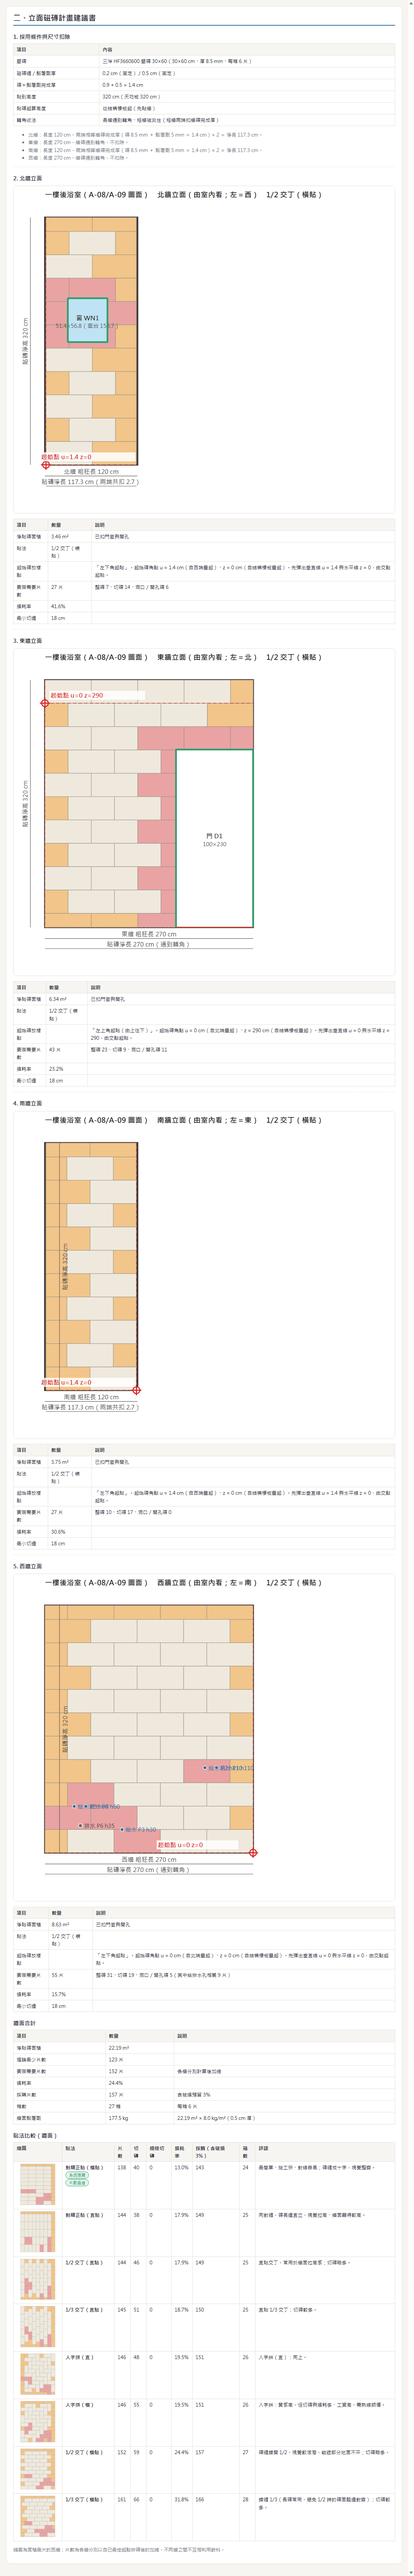
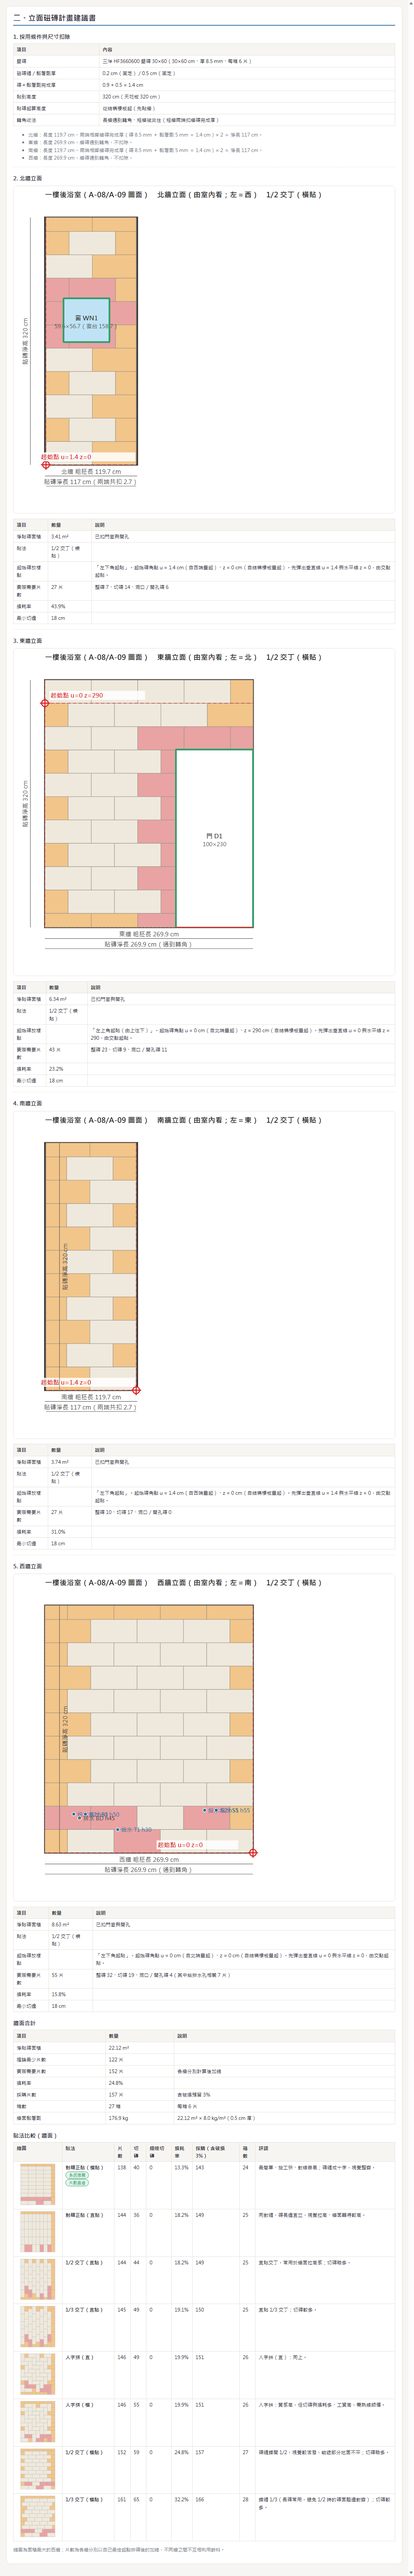
真實案例：改用新平面圖／立面圖的標註尺寸；新增地面開孔（馬桶糞管孔）

diff --git a/20261017/students/A14530026_王品洋/tile-planner/磁磚計畫.html b/20261017/students/A14530026_王品洋/tile-planner/磁磚計畫.html
@@ -318,6 +318,7 @@ function defaultProject() {
     floorMethod: 'auto', floorStart: 'auto', wallMethod: 'auto', wallStart: 'auto',
     breakagePct: 3, adhesiveKgPerM2PerMm: 1.6, bagKg: 20, trimLossPct: 5,
     drain: { x: 60, y: 130, size: 10, slope: 1, mode: 'point', dir: 'N' },
+    floorHoles: [],
     openings: [
       { id: 'D1', type: 'door', wall: 'S', offset: 50, width: 80, height: 200, sill: 0 },
       { id: 'WN1', type: 'window', wall: 'N', offset: 60, width: 60, height: 60, sill: 150 }
@@ -360,6 +361,12 @@ function validate(pj) {
     if (!(d.size >= 3 && d.size <= 40)) { errs.push('落水孔尺寸須在 3～40 cm（目前 ' + sv(d.size) + '）'); }
     if (!(d.slope >= 0 && d.slope <= 5)) { errs.push('洩水坡度須在 0～5 %（目前 ' + sv(d.slope) + '）'); }
   }
+  pj.floorHoles.forEach(function (h) {
+    var lab = '地面開孔 ' + h.id;
+    if (!fin(h.x) || !fin(h.y) || !fin(h.size)) { errs.push(lab + '：位置或尺寸未填或不是數字'); }
+    else if (!(h.size >= 2 && h.size <= 40)) { errs.push(lab + '：尺寸須在 2～40 cm（目前 ' + h.size + '）'); }
+    else if (fin(R.L) && fin(R.D) && !(h.x > 0 && h.x < R.L && h.y > 0 && h.y < R.D)) { errs.push(lab + '：位置 (' + h.x + ',' + h.y + ') 必須在房間之內'); }
+  });
   pj.openings.forEach(function (o) {
     var len = (o.wall === 'N' || o.wall === 'S') ? R.L : R.D;
     var lab = WALL_ZH[o.wall] + (o.type === 'door' ? '門 ' : '窗 ') + o.id;
@@ -417,6 +424,9 @@ function normalize(raw) {
   pj.bagKg = num(pj.bagKg, 20); pj.trimLossPct = num(pj.trimLossPct, 5);
   var d = pj.drain || base.drain;
   pj.drain = { x: num(d.x, NaN), y: num(d.y, NaN), size: num(d.size, 10), slope: num(d.slope, 1), mode: d.mode === 'oneway' ? 'oneway' : 'point', dir: d.dir || 'N' };
+  pj.floorHoles = (pj.floorHoles || []).map(function (h) {
+    return { id: String(h.id || ''), label: String(h.label || '地面開孔'), x: num(h.x, NaN), y: num(h.y, NaN), size: num(h.size, 10) };
+  });
   pj.openings = (pj.openings || []).map(function (o) {
     return { id: String(o.id || ''), type: o.type === 'window' ? 'window' : 'door', wall: o.wall, offset: num(o.offset, NaN),
              width: num(o.width, NaN), height: num(o.height, NaN), sill: o.type === 'window' ? num(o.sill, 0) : 0 };
@@ -455,7 +465,9 @@ function floorSurface(pj) {
   var d = pj.drain;
   hole = [d.x - d.size / 2, d.y - d.size / 2, d.x + d.size / 2, d.y + d.size / 2];
   void ft; void i;
-  return { rects: [rect].concat(strips), holes: [hole], net: rect, ins: ins, ew: ew, ef: ft.t / 10 + ADH };
+  var holes = [hole];
+  pj.floorHoles.forEach(function (h) { holes.push([h.x - h.size / 2, h.y - h.size / 2, h.x + h.size / 2, h.y + h.size / 2]); });
+  return { rects: [rect].concat(strips), holes: holes, net: rect, ins: ins, ew: ew, ef: ft.t / 10 + ADH };
 }
 
 function wallSurface(pj, w) {
@@ -662,7 +674,7 @@ function computeAllInner(raw) {
 
   /* 地面 */
   var fs = floorSurface(pj), fp = pickOrOverride(pj, ft, fs, 'floor');
-  var fArea = (rectArea(fs.rects[0]) + fs.rects.slice(1).reduce(function (s, r) { return s + rectArea(r); }, 0)) - pj.drain.size * pj.drain.size;
+  var fArea = (rectArea(fs.rects[0]) + fs.rects.slice(1).reduce(function (s, r) { return s + rectArea(r); }, 0)) - pj.drain.size * pj.drain.size - pj.floorHoles.reduce(function (s, h) { return s + h.size * h.size; }, 0);
   var floor = { surface: fs, tile: ft, netArea: fArea / 1e4, chosen: fp.chosen, compare: fp.table, methods: fp.methods };
   floor.slope = slopeInfo(pj, fs, ft);
   out.floor = floor;
@@ -852,6 +864,11 @@ function planSVG(res, opts) {
   s += '<rect x="' + X(n[0]) + '" y="' + Y(n[1]) + '" width="' + ((n[2] - n[0]) * sc) + '" height="' + ((n[3] - n[1]) * sc) + '" fill="none" stroke="#b08968" stroke-width="1" stroke-dasharray="4 3"/>';
   // 落水孔
   var d = pj.drain, ds = d.size * sc;
+  (pj.floorHoles || []).forEach(function (h) {
+    var hs = h.size * sc;
+    s += '<rect x="' + (X(h.x) - hs / 2) + '" y="' + (Y(h.y) - hs / 2) + '" width="' + hs + '" height="' + hs + '" fill="#fff" stroke="' + C.dra + '" stroke-width="1.5" stroke-dasharray="4 2"/>';
+    s += text(X(h.x) + hs / 2 + 4, Y(h.y) + 4, h.label + ' ' + h.size + 'cm', { size: 11, fill: C.dra, bold: true });
+  });
   s += '<rect x="' + (X(d.x) - ds / 2) + '" y="' + (Y(d.y) - ds / 2) + '" width="' + ds + '" height="' + ds + '" fill="#fff" stroke="' + C.drain + '" stroke-width="1.5"/>';
   s += '<line x1="' + (X(d.x) - ds / 2) + '" y1="' + (Y(d.y) - ds / 2) + '" x2="' + (X(d.x) + ds / 2) + '" y2="' + (Y(d.y) + ds / 2) + '" stroke="' + C.drain + '"/>';
   s += '<line x1="' + (X(d.x) + ds / 2) + '" y1="' + (Y(d.y) - ds / 2) + '" x2="' + (X(d.x) - ds / 2) + '" y2="' + (Y(d.y) + ds / 2) + '" stroke="' + C.drain + '"/>';
@@ -1416,7 +1433,9 @@ function renderForm() {
   h += '<details open><summary>② 落水孔與洩水坡度（地面）</summary><div class="grid2">' +
     inp('落水孔中心 x cm', 'drain.x') + inp('落水孔中心 y cm', 'drain.y') + inp('格柵邊長 cm', 'drain.size') + inp('洩水坡度 %', 'drain.slope', { step: '0.1' }) +
     inp('洩水方式', 'drain.mode', { type: 'select', options: [['point', '四周往落水孔（點收水）'], ['oneway', '單向洩水']] }) +
-    inp('單向洩水：往哪面牆', 'drain.dir', { type: 'select', options: WALL_OPTS }) + '</div></details>';
+    inp('單向洩水：往哪面牆', 'drain.dir', { type: 'select', options: WALL_OPTS }) + '</div>' +
+    '<p class="hint">其他地面開孔（例：馬桶糞管孔 4"）：</p>' + listTable('floorHoles', [
+      { h: '編號', k: 'id', t: 'str' }, { h: '名稱', k: 'label', t: 'str' }, { h: 'x', k: 'x', t: 'num' }, { h: 'y', k: 'y', t: 'num' }, { h: '邊長', k: 'size', t: 'num' }], '新增地面開孔') + '</details>';
 
   h += '<details open><summary>③ 門／窗（立面）</summary>' + listTable('openings', [
     { h: '編號', k: 'id', t: 'str' }, { h: '類型', k: 'type', t: 'select', o: [['door', '門'], ['window', '窗']] }, { h: '牆', k: 'wall', t: 'select', o: WALL_OPTS },
@@ -1474,6 +1493,7 @@ document.addEventListener('click', function (e) {
     var k = t.getAttribute('data-add'), a = getPath(S, k);
     var n = a.length + 1;
     if (k === 'openings') { a.push({ id: 'O' + n, type: 'window', wall: 'N', offset: 10, width: 50, height: 50, sill: 100 }); }
+    else if (k === 'floorHoles') { a.push({ id: 'H' + n, label: '地面開孔', x: 30, y: 30, size: 10 }); }
     else if (k === 'fixtures') { a.push({ id: 'X' + n, kind: 'supply', wall: 'W', offset: 50, height: 100, dia: 2.5 }); }
     else if (k === 'tiles') { a.push({ id: 'T' + n, name: '新磁磚', w: 30, h: 60, t: 9, perBox: 6, use: 'both' }); }
     else if (k === 'trim.outerCorners') { a.push({ label: '陽角 ' + n, len: 240, n: 1 }); }

diff --git a/20261017/students/A14530026_王品洋/tile-planner/src/engine.js b/20261017/students/A14530026_王品洋/tile-planner/src/engine.js
@@ -226,6 +226,7 @@ function defaultProject() {
     floorMethod: 'auto', floorStart: 'auto', wallMethod: 'auto', wallStart: 'auto',
     breakagePct: 3, adhesiveKgPerM2PerMm: 1.6, bagKg: 20, trimLossPct: 5,
     drain: { x: 60, y: 130, size: 10, slope: 1, mode: 'point', dir: 'N' },
+    floorHoles: [],
     openings: [
       { id: 'D1', type: 'door', wall: 'S', offset: 50, width: 80, height: 200, sill: 0 },
       { id: 'WN1', type: 'window', wall: 'N', offset: 60, width: 60, height: 60, sill: 150 }
@@ -268,6 +269,12 @@ function validate(pj) {
     if (!(d.size >= 3 && d.size <= 40)) { errs.push('落水孔尺寸須在 3～40 cm（目前 ' + sv(d.size) + '）'); }
     if (!(d.slope >= 0 && d.slope <= 5)) { errs.push('洩水坡度須在 0～5 %（目前 ' + sv(d.slope) + '）'); }
   }
+  pj.floorHoles.forEach(function (h) {
+    var lab = '地面開孔 ' + h.id;
+    if (!fin(h.x) || !fin(h.y) || !fin(h.size)) { errs.push(lab + '：位置或尺寸未填或不是數字'); }
+    else if (!(h.size >= 2 && h.size <= 40)) { errs.push(lab + '：尺寸須在 2～40 cm（目前 ' + h.size + '）'); }
+    else if (fin(R.L) && fin(R.D) && !(h.x > 0 && h.x < R.L && h.y > 0 && h.y < R.D)) { errs.push(lab + '：位置 (' + h.x + ',' + h.y + ') 必須在房間之內'); }
+  });
   pj.openings.forEach(function (o) {
     var len = (o.wall === 'N' || o.wall === 'S') ? R.L : R.D;
     var lab = WALL_ZH[o.wall] + (o.type === 'door' ? '門 ' : '窗 ') + o.id;
@@ -325,6 +332,9 @@ function normalize(raw) {
   pj.bagKg = num(pj.bagKg, 20); pj.trimLossPct = num(pj.trimLossPct, 5);
   var d = pj.drain || base.drain;
   pj.drain = { x: num(d.x, NaN), y: num(d.y, NaN), size: num(d.size, 10), slope: num(d.slope, 1), mode: d.mode === 'oneway' ? 'oneway' : 'point', dir: d.dir || 'N' };
+  pj.floorHoles = (pj.floorHoles || []).map(function (h) {
+    return { id: String(h.id || ''), label: String(h.label || '地面開孔'), x: num(h.x, NaN), y: num(h.y, NaN), size: num(h.size, 10) };
+  });
   pj.openings = (pj.openings || []).map(function (o) {
     return { id: String(o.id || ''), type: o.type === 'window' ? 'window' : 'door', wall: o.wall, offset: num(o.offset, NaN),
              width: num(o.width, NaN), height: num(o.height, NaN), sill: o.type === 'window' ? num(o.sill, 0) : 0 };
@@ -363,7 +373,9 @@ function floorSurface(pj) {
   var d = pj.drain;
   hole = [d.x - d.size / 2, d.y - d.size / 2, d.x + d.size / 2, d.y + d.size / 2];
   void ft; void i;
-  return { rects: [rect].concat(strips), holes: [hole], net: rect, ins: ins, ew: ew, ef: ft.t / 10 + ADH };
+  var holes = [hole];
+  pj.floorHoles.forEach(function (h) { holes.push([h.x - h.size / 2, h.y - h.size / 2, h.x + h.size / 2, h.y + h.size / 2]); });
+  return { rects: [rect].concat(strips), holes: holes, net: rect, ins: ins, ew: ew, ef: ft.t / 10 + ADH };
 }
 
 function wallSurface(pj, w) {
@@ -570,7 +582,7 @@ function computeAllInner(raw) {
 
   /* 地面 */
   var fs = floorSurface(pj), fp = pickOrOverride(pj, ft, fs, 'floor');
-  var fArea = (rectArea(fs.rects[0]) + fs.rects.slice(1).reduce(function (s, r) { return s + rectArea(r); }, 0)) - pj.drain.size * pj.drain.size;
+  var fArea = (rectArea(fs.rects[0]) + fs.rects.slice(1).reduce(function (s, r) { return s + rectArea(r); }, 0)) - pj.drain.size * pj.drain.size - pj.floorHoles.reduce(function (s, h) { return s + h.size * h.size; }, 0);
   var floor = { surface: fs, tile: ft, netArea: fArea / 1e4, chosen: fp.chosen, compare: fp.table, methods: fp.methods };
   floor.slope = slopeInfo(pj, fs, ft);
   out.floor = floor;

diff --git a/20261017/students/A14530026_王品洋/tile-planner/src/app.js b/20261017/students/A14530026_王品洋/tile-planner/src/app.js
@@ -77,7 +77,9 @@ function renderForm() {
   h += '<details open><summary>② 落水孔與洩水坡度（地面）</summary><div class="grid2">' +
     inp('落水孔中心 x cm', 'drain.x') + inp('落水孔中心 y cm', 'drain.y') + inp('格柵邊長 cm', 'drain.size') + inp('洩水坡度 %', 'drain.slope', { step: '0.1' }) +
     inp('洩水方式', 'drain.mode', { type: 'select', options: [['point', '四周往落水孔（點收水）'], ['oneway', '單向洩水']] }) +
-    inp('單向洩水：往哪面牆', 'drain.dir', { type: 'select', options: WALL_OPTS }) + '</div></details>';
+    inp('單向洩水：往哪面牆', 'drain.dir', { type: 'select', options: WALL_OPTS }) + '</div>' +
+    '<p class="hint">其他地面開孔（例：馬桶糞管孔 4"）：</p>' + listTable('floorHoles', [
+      { h: '編號', k: 'id', t: 'str' }, { h: '名稱', k: 'label', t: 'str' }, { h: 'x', k: 'x', t: 'num' }, { h: 'y', k: 'y', t: 'num' }, { h: '邊長', k: 'size', t: 'num' }], '新增地面開孔') + '</details>';
 
   h += '<details open><summary>③ 門／窗（立面）</summary>' + listTable('openings', [
     { h: '編號', k: 'id', t: 'str' }, { h: '類型', k: 'type', t: 'select', o: [['door', '門'], ['window', '窗']] }, { h: '牆', k: 'wall', t: 'select', o: WALL_OPTS },
@@ -135,6 +137,7 @@ document.addEventListener('click', function (e) {
     var k = t.getAttribute('data-add'), a = getPath(S, k);
     var n = a.length + 1;
     if (k === 'openings') { a.push({ id: 'O' + n, type: 'window', wall: 'N', offset: 10, width: 50, height: 50, sill: 100 }); }
+    else if (k === 'floorHoles') { a.push({ id: 'H' + n, label: '地面開孔', x: 30, y: 30, size: 10 }); }
     else if (k === 'fixtures') { a.push({ id: 'X' + n, kind: 'supply', wall: 'W', offset: 50, height: 100, dia: 2.5 }); }
     else if (k === 'tiles') { a.push({ id: 'T' + n, name: '新磁磚', w: 30, h: 60, t: 9, perBox: 6, use: 'both' }); }
     else if (k === 'trim.outerCorners') { a.push({ label: '陽角 ' + n, len: 240, n: 1 }); }

diff --git a/20261017/students/A14530026_王品洋/tile-planner/src/draw.js b/20261017/students/A14530026_王品洋/tile-planner/src/draw.js
@@ -64,6 +64,11 @@ function planSVG(res, opts) {
   s += '<rect x="' + X(n[0]) + '" y="' + Y(n[1]) + '" width="' + ((n[2] - n[0]) * sc) + '" height="' + ((n[3] - n[1]) * sc) + '" fill="none" stroke="#b08968" stroke-width="1" stroke-dasharray="4 3"/>';
   // 落水孔
   var d = pj.drain, ds = d.size * sc;
+  (pj.floorHoles || []).forEach(function (h) {
+    var hs = h.size * sc;
+    s += '<rect x="' + (X(h.x) - hs / 2) + '" y="' + (Y(h.y) - hs / 2) + '" width="' + hs + '" height="' + hs + '" fill="#fff" stroke="' + C.dra + '" stroke-width="1.5" stroke-dasharray="4 2"/>';
+    s += text(X(h.x) + hs / 2 + 4, Y(h.y) + 4, h.label + ' ' + h.size + 'cm', { size: 11, fill: C.dra, bold: true });
+  });
   s += '<rect x="' + (X(d.x) - ds / 2) + '" y="' + (Y(d.y) - ds / 2) + '" width="' + ds + '" height="' + ds + '" fill="#fff" stroke="' + C.drain + '" stroke-width="1.5"/>';
   s += '<line x1="' + (X(d.x) - ds / 2) + '" y1="' + (Y(d.y) - ds / 2) + '" x2="' + (X(d.x) + ds / 2) + '" y2="' + (Y(d.y) + ds / 2) + '" stroke="' + C.drain + '"/>';
   s += '<line x1="' + (X(d.x) + ds / 2) + '" y1="' + (Y(d.y) - ds / 2) + '" x2="' + (X(d.x) - ds / 2) + '" y2="' + (Y(d.y) + ds / 2) + '" stroke="' + C.drain + '"/>';

diff --git a/20261017/students/A14530026_王品洋/tile-planner/README.md b/20261017/students/A14530026_王品洋/tile-planner/README.md
@@ -91,11 +91,20 @@ node test/run-ui-test.js      # 介面：22 項（需要 Edge）
 
 ## 真實案例：一樓後浴室（real-case/）
 
-`real-case/一樓後浴室.project.json` 是依 A-08／A-09 圖面（1/30）量出來的專案，網頁上按「載入 JSON」即可。`node real-case/run.js` 會印出片數對照。
+`real-case/一樓後浴室.project.json` 依 A-08／A-09 圖面（平面圖.pdf、立面圖.pdf，1/30，圖上有標尺寸）建立，網頁上按「載入 JSON」即可。`node real-case/run.js` 會印出片數。
 
-- 落水孔在**西北角**：1-2 圖的 10×10 落水孔符號，1-4 洩水箭頭全指向它（從 PDF 向量量得符號中心距西牆 4.1 cm、距北牆 4.7 cm，程式取 (4.1, 4.7)；格柵邊長依圖例 10 cm，因此會有「落水孔超出貼磚淨區域」的提醒）。1-1 中間的「a」四向菱形是切磚收水示意，不是落水孔位置。
-- 房間 120×270×320 cm、東牆橫拉門 100×230（自北端 170）、北牆橫拉窗外框 51.4×56.8（自西牆 29.7、窗台 158.7，取自 11.pdf a-2 向量）。圖上沒有標註數字，是從 PDF 向量以 1/30 換算（房間 119.6–119.8 × 269.9、牆高 319.9、門 99.9×230.0），誤差約 ±0.5 cm；東牆圖面長 260，因北牆是斜的，程式以矩形 270 近似。
-- 地磚三洋 MSY-R3540 30×30、牆磚三洋 HF3660600 30×60（材質確認表）；磚厚、每箱片數圖上沒有，暫用 9 mm／8.5 mm／11／6。
-- 地磚正貼：程式算出 **36 片**，與圖面材料表一致。牆磚二分之一交丁：圖面寫 98 片，程式依牆高 320 算 152 片（牆高 200 cm 約 93 片），差異來自圖面未註明貼磚高度。
-- 圖面的斜牆以矩形近似；馬桶糞管孔（地面 4"）目前不支援，未納入開孔。
-- 給水點高度圖上沒有，為假設值。
+| 項目 | 圖面數值 | 輸入 |
+|---|---|---|
+| 房間 | 119.7 × 269.9、牆高 320 | L=119.7、D=269.9、H=320 |
+| 東牆門 | 160.1＋100（門在南端）、高 230 | 自北端 169.9、寬 100、高 230 |
+| 北牆窗 | 自西牆 24.1、寬 59.6、高 56.7、窗台 158.7 | 同左 |
+| 蓮蓬頭龍頭給水孔 | 距南牆 214.7（冷熱軸距 15）、H55 | 西牆自北 47.7／62.7、高 55 |
+| 馬桶給水孔 | 距南牆 94.4、H30 | 西牆自北 175.5、高 30 |
+| 面盆給水孔／出水孔 | 距南牆 44.9、給水 H50、出水 H45 | 給水自北 217.5／232.5；出水 225.0 高 45 |
+| 馬桶糞管孔（地面 4"） | 距西牆 30、距南牆 124.3 | 地面開孔 (30, 145.6) 10 cm |
+| 落水孔 | 西北角（1-2 符號、1-4 洩水箭頭全指向它），圖上無標尺寸，由 PDF 向量量得中心距西牆 4.1、距北牆 4.7 | (4.1, 4.7)、邊長 10（圖例） |
+
+- 圖面的 1-1「a」菱形是落水孔四向切磚收水示意，不是落水孔位置。
+- 地磚三洋 MSY-R3540 30×30、牆磚三洋 HF3660600 30×60（材質確認表）；磚厚、每箱片數圖上沒有，暫用 9 mm／8.5 mm／11／6；洩水坡度圖上沒有，暫用 1%。
+- 地磚正貼：程式算出 **36 片**，與圖面材料表一致。牆磚二分之一交丁：圖面寫 98 片，程式依牆高 320 算 152 片，差異原因不明（圖面未註明貼磚高度與計算方式）。
+- 北牆是斜的（東牆圖面長 260.1、西牆 269.9），程式以矩形近似。
